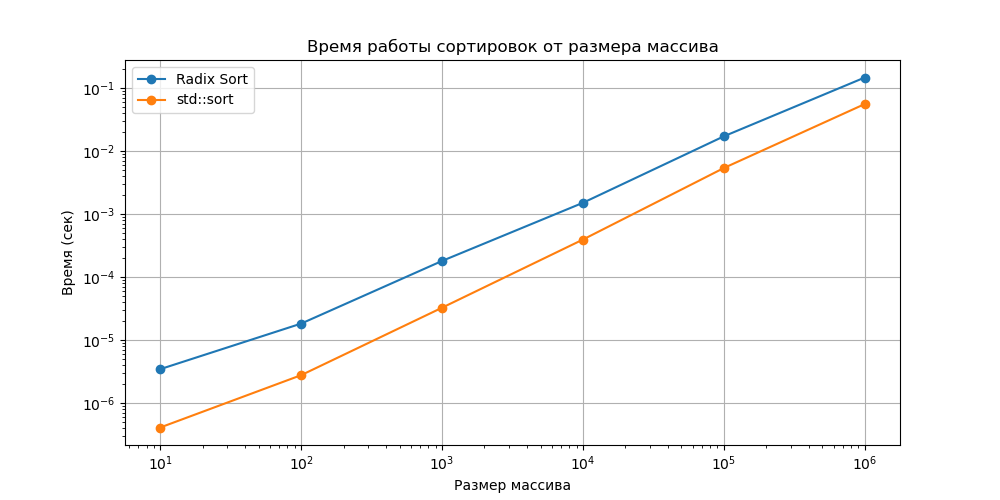
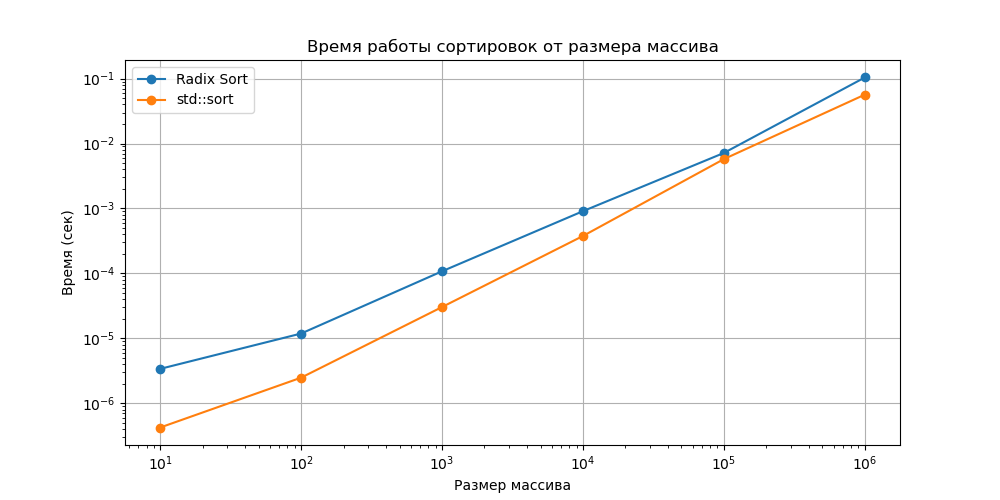
Optimized radix sort

diff --git a/task2/problem_2/main.cpp b/task2/problem_2/main.cpp
@@ -11,12 +11,11 @@ struct Queue {
     ssize_t capacity;
     ssize_t front;
     ssize_t rear;
-    ssize_t size;
 
     Queue(ssize_t cap) {
         capacity = cap;
         data = new long long[cap];
-        front = rear = size = 0;
+        front = rear = 0;
     }
 
     ~Queue() {
@@ -24,33 +23,26 @@ struct Queue {
     }
 
     bool isEmpty() {
-        return size == 0;
+        return front == rear;
     }
 
     void enqueue(long long value) {
-        if (size < capacity) {
-            data[rear] = value;
-            rear = (rear + 1) % capacity;
-            size++;
+        if (rear < capacity) {
+            data[rear++] = value;
         }
     }
 
     long long dequeue() {
-        if (size > 0) {
-            long long value = data[front];
-            front = (front + 1) % capacity;
-            size--;
-            return value;
-        }
-        return -1;
+        return data[front++];
+    }
+
+    void clear() {
+        front = rear = 0;
     }
 };
 
-long long get_digit(long long n, long long digit) {
-    for (long long i = 1; i < digit; i++) {
-        n /= BASE_N;
-    }
-    return n % BASE_N;
+long long get_digit(long long n, long long digit_place) {
+    return (n / digit_place) % BASE_N;
 }
 
 void array_radix_sort(long long* array, ssize_t size) {
@@ -63,35 +55,29 @@ void array_radix_sort(long long* array, ssize_t size) {
         }
     }
 
-    long long max_digits = 0;
-    while (max_number > 0) {
-        max_digits++;
-        max_number /= BASE_N;
-    }
+    long long digit_place = 1;
 
-    Queue* buckets[BASE_N];
-    for (int i = 0; i < BASE_N; i++) {
-        buckets[i] = new Queue(size);
-    }
+    Queue buckets[BASE_N] = { Queue(size), Queue(size), Queue(size), Queue(size), Queue(size),
+                              Queue(size), Queue(size), Queue(size), Queue(size), Queue(size) };
 
-    for (long long digit = 1; digit <= max_digits; digit++) {
+    while (max_number / digit_place > 0) {
         for (ssize_t i = 0; i < size; i++) {
-            long long d = get_digit(array[i], digit);
-            buckets[d]->enqueue(array[i]);
+            long long d = get_digit(array[i], digit_place);
+            buckets[d].enqueue(array[i]);
         }
 
         ssize_t index = 0;
         for (int i = 0; i < BASE_N; i++) {
-            while (!buckets[i]->isEmpty()) {
-                array[index++] = buckets[i]->dequeue();
+            while (!buckets[i].isEmpty()) {
+                array[index++] = buckets[i].dequeue();
             }
+            buckets[i].clear(); 
         }
-    }
 
-    for (int i = 0; i < BASE_N; i++) {
-        delete buckets[i];
+        digit_place *= BASE_N;
     }
 }
+
 
 void array_std_sort(long long* array, ssize_t size) {
     std::sort(array, array + size);
